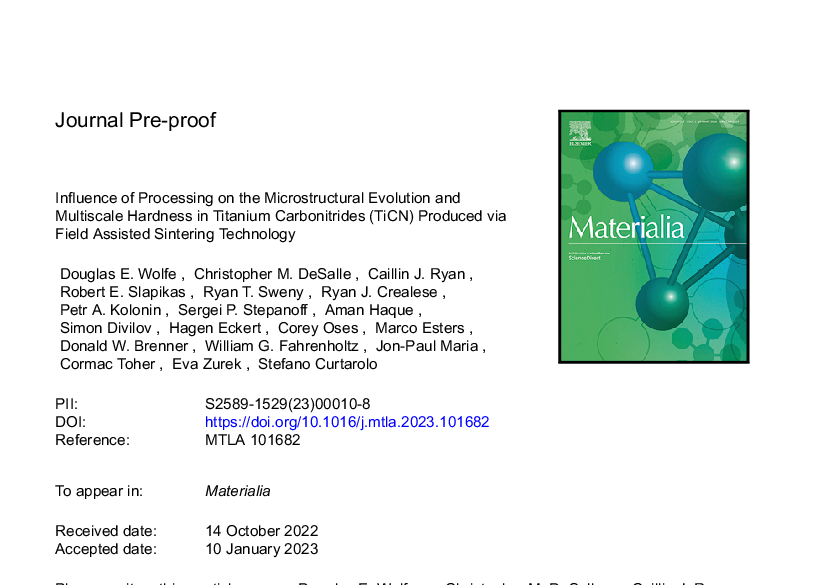
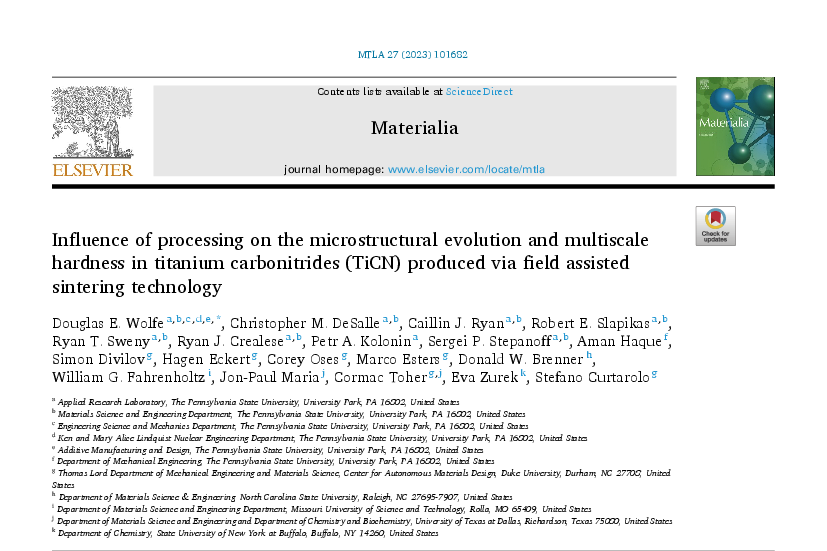
Automatic Push

Changed region(s): [[0.0605, 0.0926, 0.9383, 1.0], [0.4237, 0.216, 0.5751, 0.2468]]

diff --git a/js/s4e_web_data.js b/js/s4e_web_data.js
@@ -42,8 +42,10 @@ const publicationsJournal=[
 titlePublication:'Influence of Processing on the Microstructural Evolution and Multiscale Hardness in Titanium Carbonitrides (TiCN) Produced via Field Assisted Sintering Technology',
 authors:['D.&nbsp;E.&nbsp;Wolfe','C.&nbsp;M.&nbsp;DeSalle','C.&nbsp;J.&nbsp;Ryan','R.&nbsp;E.&nbsp;Slapikas','R.&nbsp;T.&nbsp;Sweny','R.&nbsp;J.&nbsp;Crealese','P.&nbsp;A.&nbsp;Kolonin','S.&nbsp;P.&nbsp;Stepanoff','A.&nbsp;Haque','S.&nbsp;Divilov','H.&nbsp;Eckert','C.&nbsp;Oses','M.&nbsp;Esters','D.&nbsp;W.&nbsp;Brenner','W.&nbsp;G.&nbsp;Fahrenholtz','J.-P.&nbsp;Maria','C.&nbsp;Toher','E.&nbsp;Zurek','S.&nbsp;Curtarolo'],
 journal:'Materialia',
+volume:'27',
+pages:'101682',
 year:2023,
-status:'press',
+status:'published',
 doi:'10.1016/j.mtla.2023.101682',
 filename:'10.1016_j.mtla.2023.101682',
 },
